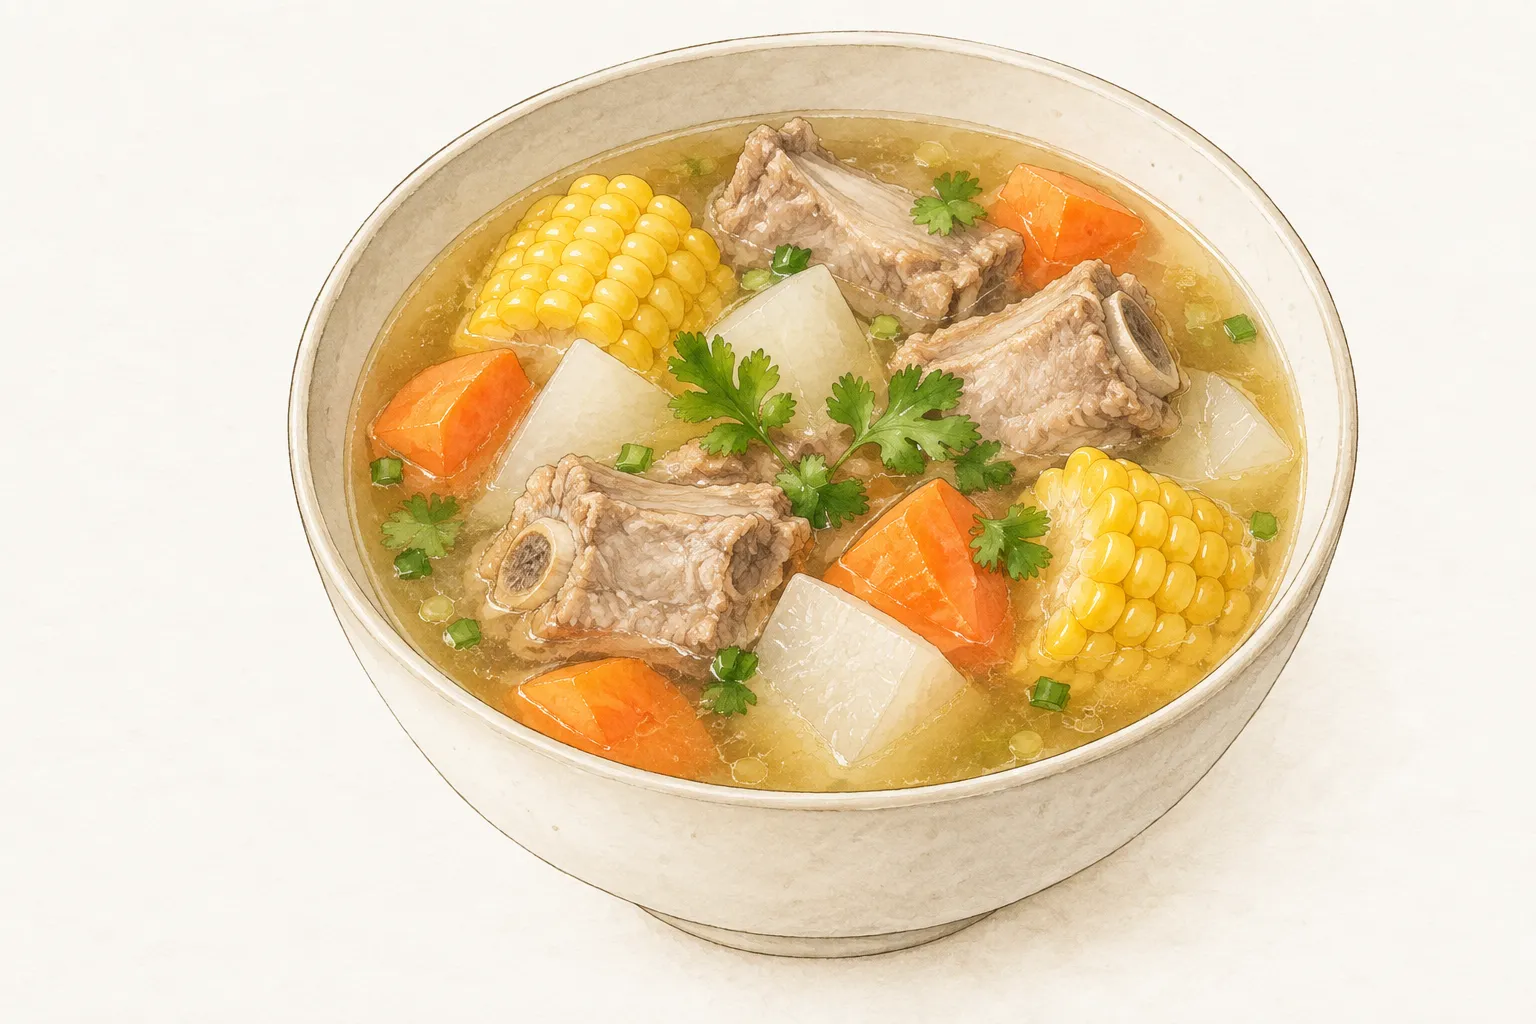
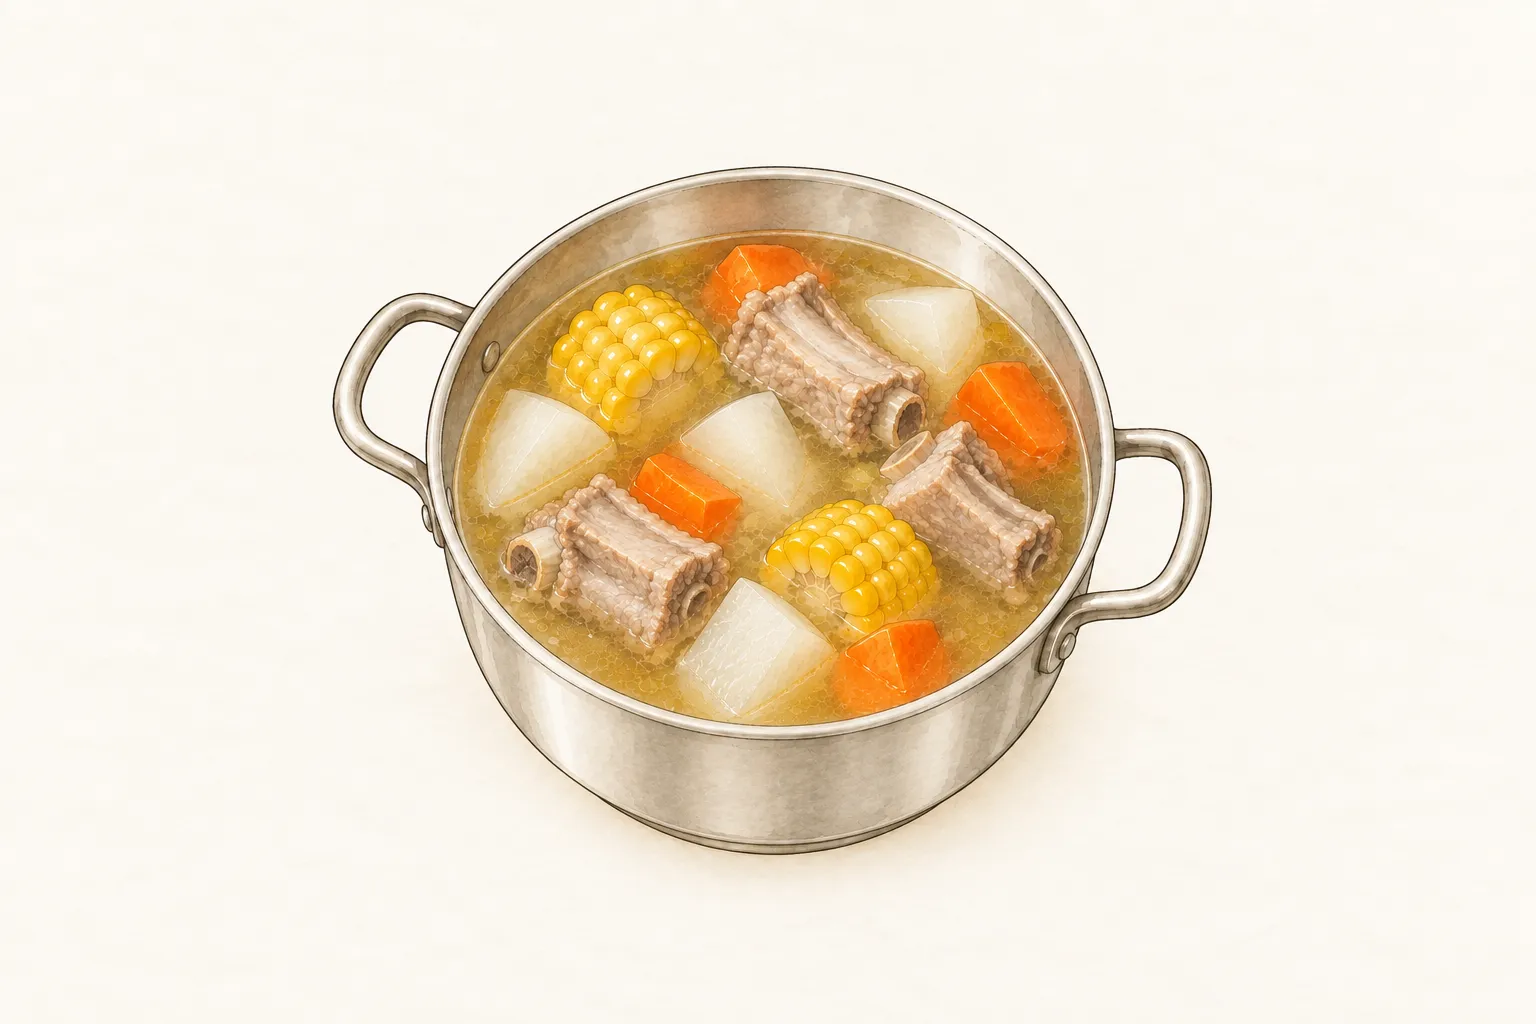
feat: remake two soup hero illustrations in pots

diff --git a/.scratch/recipe-mvp/issues/06-homepage-direction.md b/.scratch/recipe-mvp/issues/06-homepage-direction.md
@@ -43,7 +43,8 @@ Blocked by: 01
 ### 構圖
 
 - 一律橫幅 3:2，原圖 1536×1024。
-- 成品圖：成品盛在素色陶瓷盤或碗中，約 45 度俯視，主體略偏一側、約占畫面六成；不畫筷子、湯匙、叉子等餐具，也不加其他道具。首頁與卡片會裁切，主體不可貼邊。
+- 新製或重製成品圖時，先依料理的上桌方式選容器。湯以一鍋完成的湯為代表，畫敞口的素色湯鍋，讓湯面與主要食材清楚可見；其他料理若通常連鍋上桌，或整鍋成品比單份盛盤更能呈現料理特色，也可用與做法一致的鍋。其餘盛在素色陶瓷盤或碗中。鍋只是成品容器，不是正在烹調的步驟圖；以完整成品為主角，可用少量蒸氣表現熱度，不增加場景或道具。
+- 成品圖約 45 度俯視，主體略偏一側、約占畫面六成；讓整鍋或盤碗呈現較開闊的份量感，同時留足空白供首頁與卡片裁切，主體不可貼邊。不畫筷子、湯匙、叉子等餐具。
 - 材料合照：正上方俯視平鋪，各材料彼此分開不重疊；畫出的品項與數量須和材料清單一致，調味料以小碟、小瓶呈現。
 - 步驟圖：只畫該步驟完成時的關鍵狀態；備料步驟（洗、切、泡、醃、調醬汁，以及撈起備用的汆燙）每一步都要有圖，烹調步驟再挑 2–3 個關鍵狀態；同一份菜譜的鍋具、砧板、刀和盤子在各圖保持一致。
 

diff --git a/.claude/skills/recipe-making/illustration.md b/.claude/skills/recipe-making/illustration.md
@@ -20,7 +20,7 @@ node .claude/skills/recipe-making/scripts/img.mjs steps [步驟文字關鍵字]
 
 各類圖的提示詞寫法：
 
-1. **`hero` 成品圖**：參考圖附 `ingredients.webp`（新菜譜還沒有時不附）。描述結尾加 `No utensils: no chopsticks, no spoon, no fork, nothing beside the plate.`。
+1. **`hero` 成品圖**：先依 06〈構圖〉決定容器，湯畫敞口湯鍋；其他料理符合連鍋上桌或整鍋更能呈現特色的條件時才畫鍋，否則畫盤碗。提示詞寫明容器、完整成品與可見的主要食材；畫鍋時寫明它已離火、鍋中是可上桌的成品，並與步驟圖的鍋具一致。參考圖附 `ingredients.webp`（新菜譜還沒有時不附）。描述結尾加 `No utensils: no chopsticks, no spoon, no fork, nothing beside the vessel.`。
 2. **`ingredients` 材料合照**：附 `hero.png`。逐項寫 `exactly N <品項與 note>`，結尾加 `Nothing else: no extra vegetables, no utensils, no other items.`。
 3. **`step-N` 步驟圖**：N 是 YAML 中的步驟序號。備料圖寫木砧板加菜刀、素色瓷碗，或汆燙後的不鏽鋼瀝水籃。參考圖附 `hero.png`，再附一張同菜譜已有的同類器具圖（砧板、碗或鍋），器具才會一致。
 
